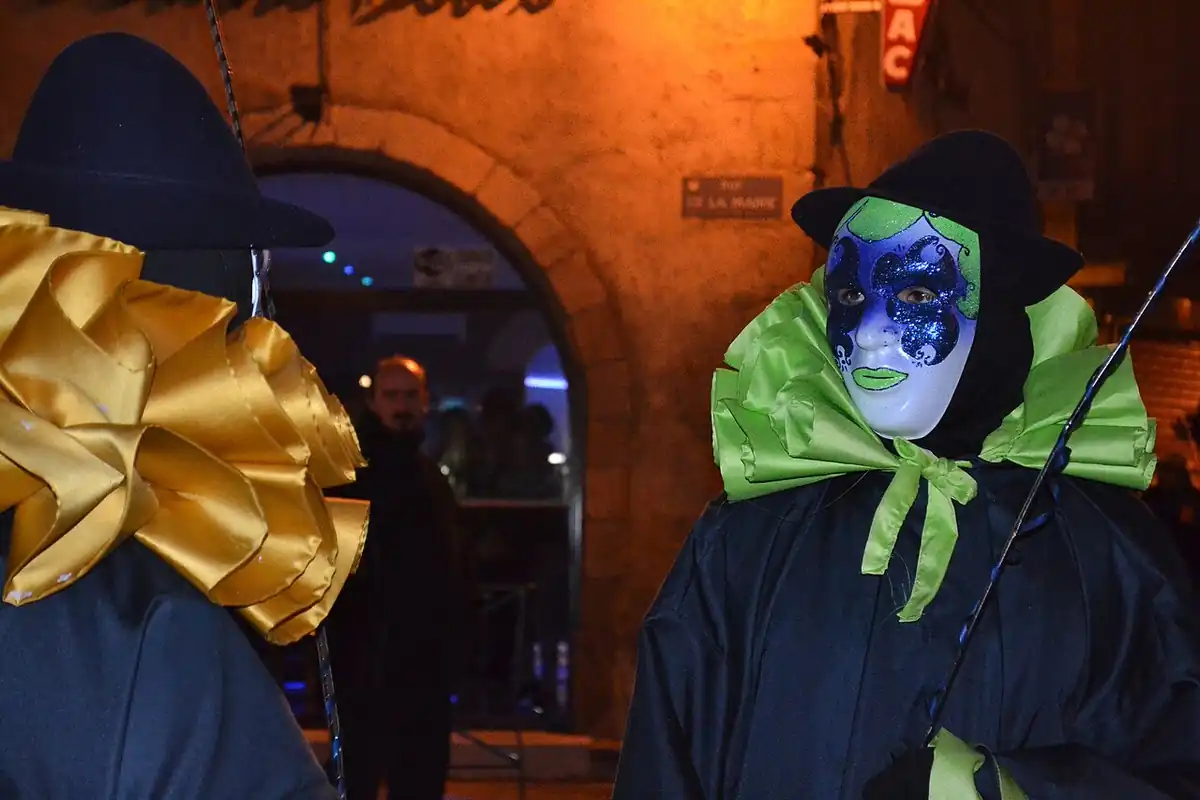
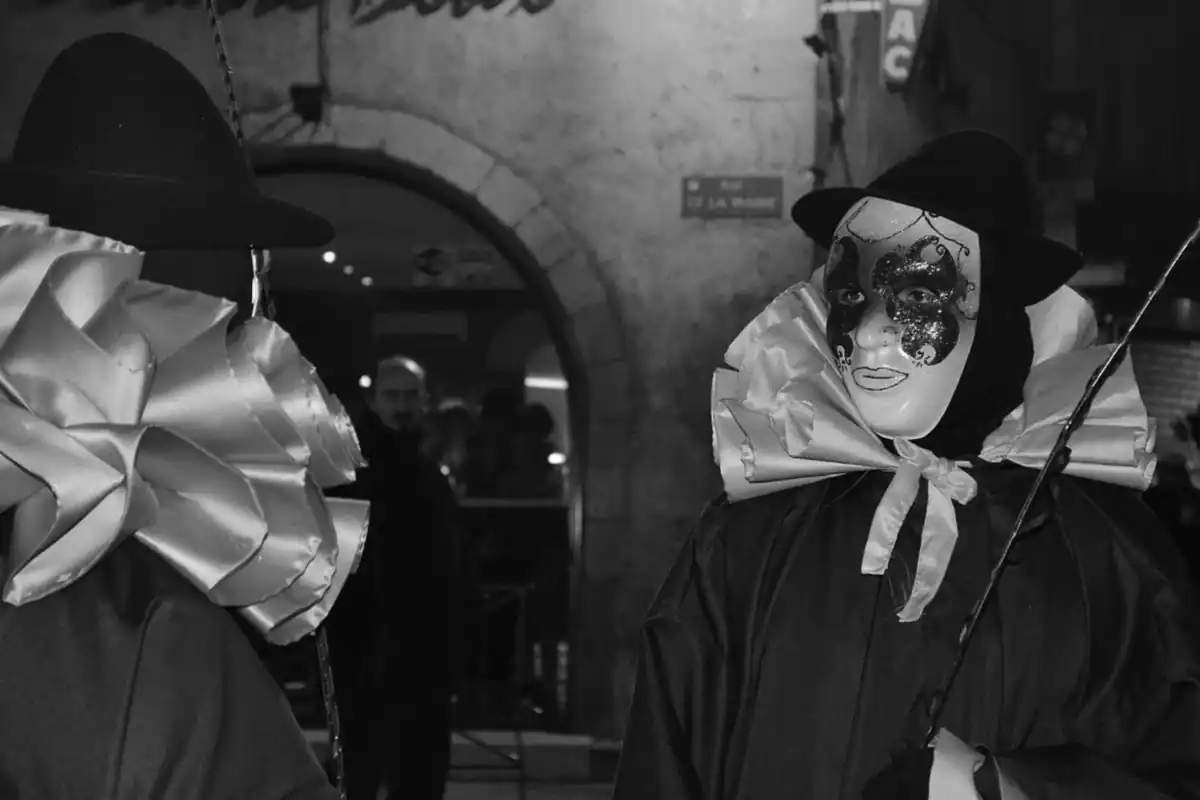
Cultura : la fiche de l'escòla prend la plaque « Rue de l'Escola » de Romain (06-11)
Photo du stock de Romain (PXL_20230521_104030960, hors Git), choisie
plutôt que L'Ostal dels Pichonets (crèche du CHU au nom occitan). Nouvelle
table STOCK de lib/cultura/imatges.js, sans crédit ; posFicha pour garder
la plaque au-dessus du titre dans la case large de la fiche. La taille
1200 (tête de fiche) est tirée en gris et à peine adoucie : 166 → 83 Ko,
carnaval-1200 39 → 22 Ko, sans différence visible une fois teintée.
Contrôle de Joan : bon.

diff --git a/app/src/lib/cultura/imatges.js b/app/src/lib/cultura/imatges.js
@@ -7,9 +7,9 @@
 //
 // pos : le point de la photo à garder au centre quand la case la recadre.
 // Les petites images sont déjà recadrées en 3:2 autour de ce point.
-// Sans photo qui corresponde : une photo libre de Wikimedia Commons (COMMONS,
-// créditée), un dessin au trait de Remira (même famille que la poussière
-// d'or), ou rien.
+// Sans photo qui corresponde : une autre photo du stock de Romain (STOCK), une
+// photo libre de Wikimedia Commons (COMMONS, créditée), un dessin au trait de
+// Remira (même famille que la poussière d'or), ou rien.
 
 /** fiche → photo de paysage (clau de lib/paisatges) et point à garder */
 export const FOTOS = {
@@ -78,16 +78,32 @@ export const COMMONS = {
 	}
 };
 
-export const AMPLES = [480, 800];
-const AMPLES_COMMONS = [480, 800, 1200]; // la plus grande sert à la case de la fiche
-/** largeurs tirées pour une fiche ; une photo de Commons plus étroite s'arrête à sa largeur */
-export const amples = (id) => {
-	const c = COMMONS[id];
-	if (!c) return AMPLES;
-	const max = Math.min(c.largor, AMPLES_COMMONS.at(-1));
-	return [...AMPLES_COMMONS.filter((a) => a < max), max];
+/**
+ * fiches illustrées par une photo de Romain qui n'est pas dans les paysages :
+ * son stock hors Git (Lo_Ligam_hors-git/design-stock/Fotos/Bases_foto/<font>),
+ * sans métadonnée ni GPS dans les images tirées. Pas de crédit (comme les
+ * paysages). largor : largeur une fois recadrée en 3:2.
+ */
+export const STOCK = {
+	// la plaque « Rue de l'Escola » sous les roses (Romain, 06-11 : choisie
+	// plutôt que l'Ostal dels Pichonets, une crèche au nom occitan)
+	// posFicha : cadrage dans la case large de la fiche (la plaque au-dessus du titre, les roses dessous)
+	calandreta: { font: 'PXL_20230521_104030960.jpg', largor: 3024, pos: '50% 46%', posFicha: '50% 66%' }
 };
-export const foto = (id) => FOTOS[id] ?? COMMONS[id] ?? null;
+
+/** photo hors des paysages (Commons ou stock de Romain), tirée par scripts/cultura-fotos.mjs */
+export const extern = (id) => COMMONS[id] ?? STOCK[id] ?? null;
+
+export const AMPLES = [480, 800];
+const AMPLES_EXTERNS = [480, 800, 1200]; // la plus grande sert à la case de la fiche
+/** largeurs tirées pour une fiche ; une photo plus étroite s'arrête à sa largeur */
+export const amples = (id) => {
+	const x = extern(id);
+	if (!x) return AMPLES;
+	const max = Math.min(x.largor, AMPLES_EXTERNS.at(-1));
+	return [...AMPLES_EXTERNS.filter((a) => a < max), max];
+};
+export const foto = (id) => FOTOS[id] ?? extern(id);
 export const credit = (id) => COMMONS[id] ?? null;
 /** srcset des petites images ; max : largeur la plus grande proposée (800 au sommaire) */
 export const srcset = (id, max = 800) =>

diff --git a/app/src/routes/cultura/[ficha]/+page.server.js b/app/src/routes/cultura/[ficha]/+page.server.js
@@ -2,7 +2,7 @@ import { error } from '@sveltejs/kit';
 import { ficha } from '$lib/cultura/index.js';
 import { encart } from '$lib/cultura/encart.server.js';
 import { dessenh } from '$lib/cultura/dessenhs.server.js';
-import { foto, credit, amples, srcset } from '$lib/cultura/imatges.js';
+import { foto, credit, extern, amples, srcset } from '$lib/cultura/imatges.js';
 import { PAISATGES } from '$lib/paisatges/paisatges.js';
 
 // Une fiche de Cultura : l'encart de sa leçon, lu côté serveur, avec sa photo
@@ -14,19 +14,20 @@ export function load({ params }) {
 	if (!e) error(404, 'Fiche introuvable');
 	const ft = foto(f.id);
 	const c = credit(f.id);
-	const p = ft && !c && PAISATGES.find((x) => x.clau === ft.clau);
+	const x = extern(f.id); // hors des paysages : Commons (crédité) ou stock de Romain
+	const p = ft && !x && PAISATGES.find((y) => y.clau === ft.clau);
 	const fotoGranda = p
 		? {
 				src: `/apren/paisatges/${p.clau}-${p.amples[0]}.webp`,
 				srcset: p.amples.map((a) => `/apren/paisatges/${p.clau}-${a}.webp ${a}w`).join(', '),
 				pos: ft.pos
 			}
-		: c?.objecte
+		: x?.objecte
 			? // un objet en petite photo : entier, au bout de la case
 				{ src: `/cultura/${f.id}-objecte.webp`, srcset: undefined, pos: '50% 50%', credit: c, objecte: true }
-			: c
-				? // photo de Commons : ses images déjà recadrées, et son crédit
-					{ src: `/cultura/${f.id}-${amples(f.id)[0]}.webp`, srcset: srcset(f.id, Infinity), pos: '50% 50%', credit: c }
+			: x
+				? // ses images déjà recadrées, et son crédit s'il vient de Commons
+					{ src: `/cultura/${f.id}-${amples(f.id)[0]}.webp`, srcset: srcset(f.id, Infinity), pos: x.posFicha ?? '50% 50%', credit: c }
 				: null;
 	return { id: f.id, encart: e, foto: fotoGranda, dessenh: dessenh(f.id) };
 }

diff --git a/app/src/lib/cultura/cultura.test.js b/app/src/lib/cultura/cultura.test.js
@@ -80,15 +80,23 @@ describe('l’interface de Cultura', () => {
 // dessin qui existe ; jamais photo et dessin à la fois.
 describe('les images de Cultura', async () => {
 	const { existsSync } = await import('node:fs');
-	const { FOTOS, COMMONS, DESSENHS, AMPLES, amples, srcset } = await import('./imatges.js');
+	const { FOTOS, COMMONS, STOCK, DESSENHS, AMPLES, amples, srcset } = await import('./imatges.js');
 	const { PAISATGES } = await import('$lib/paisatges/paisatges.js');
 	const { dessenh } = await import('./dessenhs.server.js');
 	const ids = new Set(FICHAS.map((f) => f.id));
 
 	it('vont à des fiches qui existent, une seule image par fiche', () => {
-		const tots = [...Object.keys(FOTOS), ...Object.keys(COMMONS), ...Object.keys(DESSENHS)];
+		const tots = [...Object.keys(FOTOS), ...Object.keys(COMMONS), ...Object.keys(STOCK), ...Object.keys(DESSENHS)];
 		for (const id of tots) expect(ids.has(id), id).toBe(true);
 		expect(new Set(tots).size).toBe(tots.length);
+	});
+
+	it('ont les tailles des autres photos de Romain', () => {
+		for (const [id, s] of Object.entries(STOCK)) {
+			expect(s.pos, id).toMatch(/^\d{1,3}% \d{1,3}%$/);
+			for (const a of amples(id)) expect(existsSync(`static/cultura/${id}-${a}.webp`), `${id}-${a}`).toBe(true);
+		}
+		expect(amples('calandreta')).toEqual([480, 800, 1200]);
 	});
 
 	it('créditent les photos de Wikimedia Commons et ont leurs tailles', () => {

diff --git a/cahier-des-charges.md b/cahier-des-charges.md
@@ -543,7 +543,7 @@ Signer les accords, créer les comptes, héberger, gérer l'argent et les décla
 | 2026-11-06 | **Diffusion du site : en trois cercles** (Romain, option 2 sur 3 de `diffusion/strategie.md`, après sa question « sortir le site tout seul, ou en informer la Région ? ») : d'abord des testeurs de confiance (novembre et décembre), puis les acteurs de la langue, dans l'ordre lo Congrès, l'OPLO, le CIRDÒC (Occitanica), la Région (décembre et janvier), puis le lancement public en février 2027, si possible pendant « Parlem ! ». Aux partenaires, on demande un relais et un regard sur l'occitan, pas d'argent. Textes prêts : `diffusion/messages.md` (invitations aux testeurs, quatre courriels), `diffusion/fiche.md` (fiche d'une page) | Vérifié le 06-11 : l'aide régionale à la transmission vise les collectivités, exclut les sites Internet et renvoie vers l'OPLO ; un occitan relu et la voix de Romain doivent être en place avant le regard des connaisseurs ; « Parlem ! » donne une date et une accroche |
 | 2026-11-06 | **Les textes de diffusion disent simplement que l'IA a servi** (Romain : « Oui, simplement ») : le code, la mise en page et le premier jet des leçons ont été réalisés avec des assistants d'intelligence artificielle (Claude, puis Mistral), dans le cadre fixé par Romain ; chaque mot occitan est vérifié dans les ressources de lo Congrès et la *Gramatica de l'occitan estandard*, puis relu par lui (`diffusion/synthese.md`, `diffusion/messages.md`, `diffusion/fiche.md`) | Le monde occitan est attentif à la qualité de la langue : mieux vaut qu'il l'apprenne de Romain, avec les garde-fous, que le découvrir seul |
 | 2026-11-06 | **Cultura : les photos de Romain, passées dans la couleur du thème** (Romain : « là je trouve que c'est pas ouf… garder le code couleur à un endroit mais plus discret… fais surtout pas ta bandelette IA », « des fonds d'images un peu transparents avec les photos que j'ai mis, si ça correspond » ; devant trois allures sur `/cultura/ensag` : « je préfère b je crois ») | Chaque case du sommaire et la tête de chaque fiche montrent une photo de Romain (celles des paysages, déjà en ligne, sans GPS) en camaïeu de la couleur du thème : la couleur n'est plus que là. Filtre neutre, le thème choisi prend sa couleur et un anneau ; pastille supprimée. 23 fiches avec photo (une photo prise ailleurs peut illustrer), 3 avec un dessin au trait de Remira, la croix du logo pour « Lo roge e l'aur » ; 3 sans image (Carnaval, Copa Santa, escòla) : photos libres de Wikimedia Commons à proposer, auteur cité. La musique passe à un or brun (#8f6514, texte crème). Écartés : A « fond voilé » (photo transparente, couleur dans le seul nom du thème, recommandé par Joan), C « photo au-dessus » (catalogue, gros trous sans photo). Données : `lib/cultura/imatges.js` ; petites images `static/cultura/` par `scripts/cultura-fotos.mjs` (3:2, WebP 50, environ 20 Ko) |
-| 2026-11-06 | **Cultura : deux photos libres de Wikimedia Commons** (Romain : « Oui, cherche », puis « Oui, les deux » devant un aperçu teinté des candidates) | Carnaval : les masques du Tivoli, carnaval de Limoux 2015 (Unuaiga, CC BY-SA 4.0). Copa Santa : la coupe elle-même (Capsot, CC0), trop petite pour remplir la case de la fiche : elle y est entière, au bout de la case, comme les dessins. Écartées : les photos où l'on reconnaît des visages (spectateurs, enfants), les torches de Limoux (illisibles une fois teintées). L'escòla (Calandreta) reste sans photo : panneau écrit en français, façade banale ; une photo de Romain plus tard. Crédit sous la case de la fiche et au pied du sommaire (auteur, licence, lien, « modifiée »), en six langues. Source réduite hors Git (`Lo_Ligam_hors-git/design-stock/brut/commons-cultura/`), entrée `COMMONS` de `lib/cultura/imatges.js` |
+| 2026-11-06 | **Cultura : deux photos libres de Wikimedia Commons** (Romain : « Oui, cherche », puis « Oui, les deux » devant un aperçu teinté des candidates) | Carnaval : les masques du Tivoli, carnaval de Limoux 2015 (Unuaiga, CC BY-SA 4.0). Copa Santa : la coupe elle-même (Capsot, CC0), trop petite pour remplir la case de la fiche : elle y est entière, au bout de la case, comme les dessins. Écartées : les photos où l'on reconnaît des visages (spectateurs, enfants), les torches de Limoux (illisibles une fois teintées). L'escòla (Calandreta) : rien de bon sur Commons (panneau écrit en français, façade banale) ; Romain a rappelé qu'il avait une photo dans son stock : sa plaque « Rue de l'Escola » sous les roses (PXL_20230521_104030960), choisie plutôt que L'Ostal dels Pichonets (crèche du CHU de Montpellier au nom occitan, photo reçue d'un tiers) ; table `STOCK` de `lib/cultura/imatges.js`, sans crédit. Avant de chercher ailleurs, regarder aussi les photos du stock qui ne sont pas en ligne (`revisions/2026-11-06-paisatges-temas.md`). La grande taille (1200, tête de fiche) est tirée en gris et à peine adoucie : moitié moins lourde, sans différence visible une fois teintée. Crédit sous la case de la fiche et au pied du sommaire (auteur, licence, lien, « modifiée »), en six langues. Source réduite hors Git (`Lo_Ligam_hors-git/design-stock/brut/commons-cultura/`), entrée `COMMONS` de `lib/cultura/imatges.js` |
 | 2026-11-06 | **Lo talhièr, lot 1 : la liste « Per tu » et les notes pour l'IA** (Romain : « Lot 1 : Per tu et l'IA ») : `/admin` devient « Per tu », la liste unique de ce qui attend Romain ; sur chaque page, une barre pour l'administrateur (Modificar, Comentar, Aquí, Per tu) ; une note s'épingle sur un endroit de la page, pour l'IA ou pour soi. Les notes vont dans la table `remarcas` (colonnes `per`, `de_romain`, `clau`, `autor_responsa`, `vista`) plutôt que dans une nouvelle table ; l'IA, Claude ou Mistral, les relève avec `node scripts/remarcas.mjs` et répond dans « Per tu ». L'ancien contrôle des verrous passe dans `/admin/verrolhs`. Détail : `revisions/2026-11-06-talhier.md` §12. |
 | 2026-11-06 | **Salle de jeux : Joiós par défaut, affiches redessinées** (Romain, le soir : « Je préfère joios en fait » ; « les illustrations sont pas mal mais pas assez travaillées ») : *Joiós* devient le tèma par défaut ; *Calme* reste au choix, gardé sur l'appareil (`?tema=calme` aussi). Les cinq affiches (la Garonne à Toulouse, Sant Guilhèm, les gorges d'Erau, la plaine entre deux chênes, le pin sur la mer) sont redessinées comme des affiches peintes : plans qui pâlissent au loin, lumière venue de la gauche, feuillages, garrigue, nuages, galets et pierres en coups de pinceau, filets fins pour l'eau, la roche, les tuiles et l'écorce. Le dessin est fait dans le navigateur (`app/src/lib/jocs/sala/afica-scenas.js`, hasard fixe : le même dessin à chaque visite) ; en joiós, le dessin lui-même bouge lentement (eau, feuilles, nuages, voile, oiseaux), seulement quand l'affiche est à l'écran, jamais si l'appareil demande moins d'animation. Deux relectures de Joan (la seconde : « à montrer à Romain »). | Romain a essayé les deux tèmas et préfère la couleur ; les premières affiches, en aplats simples, faisaient encore « vectoriel ». Dessiner dans le navigateur n'alourdit pas la page envoyée (sobriété) ; un paysage de plus = une fonction dans `SCENAS`, ses tests disent le reste |
 | — | *(à compléter)* | |

diff --git a/PILOTATGE.md b/PILOTATGE.md
@@ -43,7 +43,7 @@ Une seule marche à suivre, qui fond les 7 étapes de `revisions/2026-10-21-refo
 | 3 | **L'accueil, la vue d'ensemble** (bloc 4) | **corrections de Romain du 03-11 (PDF de 8 pages), les dix faites (la croix refaite en quatre niveaux le 04-11)** : menu à droite, pied de page, six textes, places du premier cours et bandeau de mots faits (nombre de places à écrire par Romain dans « Editar », vide au départ ; liste du bandeau au choix de Romain, francitan par défaut) ; la croix occitane dans les ronds de S'apren : refaite le 04-11 (la variante C était jugée « amateur »), piste 1 « le tour puis les liens » choisie par Romain, quatre niveaux du débutant à la croix pleine, en ligne sur l'accueil (essais /ensag/crotz2 et /ensag/crotz retirés le 04-11) (`revisions/2026-11-03-accueil-corrections-passation.md`) |
 | 4 | La charte et le mouvement (blocs 5 et 6), le cadre commun des pages | en partie : règle B des couleurs sur tout le site (23-10) ; reste la question du point 3 ci-dessus |
 | 5 | Les mots (bloc 7) | en partie : tutoiement partout, « uèi » validé (22-23-10) ; reste la pile de validations |
-| 6 | Les pages de rubrique : Se parla (carte, puis wiki), S'apren, Amassa | carte très avancée (prise en avance le 22-10) ; **les trois pages lancées le 24-10** (chantiers 19 à 23, une discussion chacun), S'apren d'abord ; Se parla et Amassa en ligne le 25-10 ; **03-11 : le wiki expliquera aussi la grammaire** (inspiration : la grammaire cognitive du CPNL, `design-stock/Inspiration/Gramatica/`, cahier §11) ; **la grammaire passe dans S'apren : `/apren/gramatica`** (sommaire dans l'ordre du parcours, première fiche *L'infinitiu*, modèle de fiche pour Mistral, 03-11 ; on prend les informations du livre, pas son texte ni son plan), occitan à relire par Romain ; case « Gramatica » sur la page S'apren ; **04-11 : les 36 fiches écrites** (dont cinq sur la prononciation), toutes à relire par Romain  ; **04-11 : Chabbert (*Lire & écrire l'Occitan*) dans les fiches de prononciation, six proverbes du *Petit dictionnaire insolite* dans les encarts Cultura ; méthode pour chaque nouvelle source : `cursus/11-fonts-integradas.md` ; sommaire en cinq thèmes de couleur avec un filtre animé ; toute l'interface de la grammaire suit la langue choisie, bulles de survol en occitan (cahier §11)** ; reste : d'autres grammaires à croiser ; **04-11 : Cultura remplace le wiki** (`/cultura`, 30 fiches tirées des encarts « Cultura » des leçons, six thèmes et un filtre ; `/wiki` y renvoie ; titres occitans à relire par Romain ; Articles gardé pour ses lettres ouvertes ; cahier §11) ; **06-11 : Cultura en photos teintées** (photos de Romain dans la couleur du thème, filtre neutre ; photos libres de Wikimedia Commons pour Carnaval et Copa Santa, créditées ; l'escòla reste sans photo ; cahier §11) |
+| 6 | Les pages de rubrique : Se parla (carte, puis wiki), S'apren, Amassa | carte très avancée (prise en avance le 22-10) ; **les trois pages lancées le 24-10** (chantiers 19 à 23, une discussion chacun), S'apren d'abord ; Se parla et Amassa en ligne le 25-10 ; **03-11 : le wiki expliquera aussi la grammaire** (inspiration : la grammaire cognitive du CPNL, `design-stock/Inspiration/Gramatica/`, cahier §11) ; **la grammaire passe dans S'apren : `/apren/gramatica`** (sommaire dans l'ordre du parcours, première fiche *L'infinitiu*, modèle de fiche pour Mistral, 03-11 ; on prend les informations du livre, pas son texte ni son plan), occitan à relire par Romain ; case « Gramatica » sur la page S'apren ; **04-11 : les 36 fiches écrites** (dont cinq sur la prononciation), toutes à relire par Romain  ; **04-11 : Chabbert (*Lire & écrire l'Occitan*) dans les fiches de prononciation, six proverbes du *Petit dictionnaire insolite* dans les encarts Cultura ; méthode pour chaque nouvelle source : `cursus/11-fonts-integradas.md` ; sommaire en cinq thèmes de couleur avec un filtre animé ; toute l'interface de la grammaire suit la langue choisie, bulles de survol en occitan (cahier §11)** ; reste : d'autres grammaires à croiser ; **04-11 : Cultura remplace le wiki** (`/cultura`, 30 fiches tirées des encarts « Cultura » des leçons, six thèmes et un filtre ; `/wiki` y renvoie ; titres occitans à relire par Romain ; Articles gardé pour ses lettres ouvertes ; cahier §11) ; **06-11 : Cultura en photos teintées** (photos de Romain dans la couleur du thème, filtre neutre ; photos libres de Wikimedia Commons pour Carnaval et Copa Santa, créditées ; l'escòla : la plaque « Rue de l'Escola » de Romain ; cahier §11) |
 | 7 | Les pages intérieures, l'administration remise en cohérence | **pris en avance le 24-10** : l'édition sur place, séance 1 faite (accueil, tout le niveau Contenu) ; séances 2 à 4 à faire ; **06-11 : refonte proposée, « Lo talhièr »** (Romain n'utilise pas l'admin actuel : rail de cinq outils sur chaque page, liste « Per tu », pila de validation, notes pour l'IA, voix et médias ; cinq lots, une dizaine de séances ; `revisions/2026-11-06-talhier.md`) : **lot 1 en ligne le 06-11** (choix de Romain : « Lot 1 : Per tu et l'IA ») : barre Modificar · Comentar · Aquí · Per tu sur les pages, `/admin` devient « Per tu », notes dans la table `remarcas` (`supabase/supabase-notas.sql`, appliqué), relève par l'IA `node scripts/remarcas.mjs` ; passation au §12 de la proposition ; **lots 2 à 5 : Romain choisit** |
 | 8 | Lancement (bloc 8) | à faire ; **06-11 : diffusion « en trois cercles » choisie par Romain** (`diffusion/strategie.md`, synthèse du projet dans `diffusion/synthese.md`, chantier 30) : testeurs de confiance, puis acteurs de la langue, lancement public en février 2027 |
 

diff --git a/revisions/2026-11-06-paisatges-temas.md b/revisions/2026-11-06-paisatges-temas.md
@@ -37,7 +37,7 @@ Données : `app/src/lib/paisatges/paisatges.js` (champ `tema`, liste `TEMAS`). F
 
 ## Pas pour les paysages
 
-- **L'occitan dans la rue** (19, pour le jeu des plaques prévu à part) : 20250125_135500 · 20250512_174559 · 20251226_134451 · 20260811_152329 · 20260912_184203 · DSCF1753 · DSCF1872 · DSCF1926~2 · DSCF1944 · DSCF1945 · DSCF1948 · DSCF2263 · DSCF2319 · PXL_20230501_132702203 · PXL_20230501_134701664 · PXL_20230517_184110795 · PXL_20230521_104030960 · received_194856153699914 · received_221816727548606
+- **L'occitan dans la rue** (19, pour le jeu des plaques prévu à part) : 20250125_135500 · 20250512_174559 · 20251226_134451 · 20260811_152329 · 20260912_184203 · DSCF1753 · DSCF1872 · DSCF1926~2 · DSCF1944 · DSCF1945 · DSCF1948 · DSCF2263 · DSCF2319 · PXL_20230501_132702203 · PXL_20230501_134701664 · PXL_20230517_184110795 · PXL_20230521_104030960 (sert aussi à la fiche Cultura de l'escòla, 06-11) · received_194856153699914 · received_221816727548606
 - **Gens reconnaissables** (13, jamais sans autorisation écrite) : 20250613_152116 · DSCF0629 · DSCF1606 · DSCF1785 · DSCF1800 · DSCF2415 · DSCF2418 · DSCF2420 · DSCF2425 · PXL_20230617_165347188 · PXL_20230701_150107287 · PXL_20240622_185333194 · received_717376503599719
 - **Écartées** : 20170319_152621 (penchée) · DSCF0600 (banderole politique) · DSCF0678 (illisible) · DSCF2574 (jambes) · IMAG0302~2 (inscription) · IMG_20170203_192205_235 (1080 px, floue en grand écran)
 
